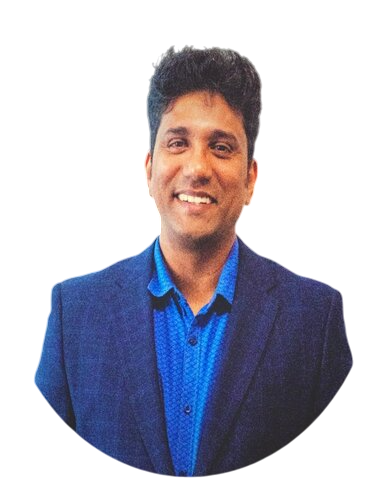
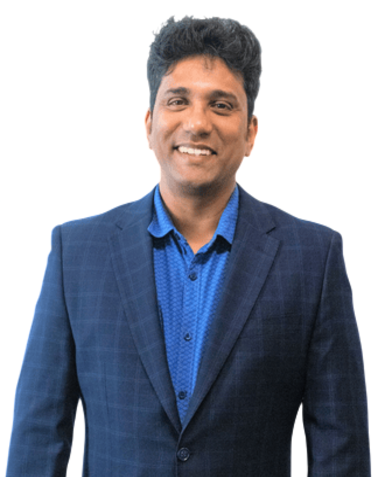
about company added

diff --git a/index.html b/index.html
@@ -26,6 +26,13 @@
   <link href="assets/vendor/swiper/swiper-bundle.min.css" rel="stylesheet">
   <link href="assets/vendor/glightbox/css/glightbox.min.css" rel="stylesheet">
 
+  <!-- Include SweetAlert2 CSS -->
+  <link href="https://cdn.jsdelivr.net/npm/sweetalert2@11/dist/sweetalert2.min.css" rel="stylesheet">
+
+  <!-- Include SweetAlert2 JS -->
+  <script src="https://cdn.jsdelivr.net/npm/sweetalert2@11"></script>
+
+
   <!-- Main CSS File -->
   <link href="assets/css/main.css" rel="stylesheet">
 
@@ -152,25 +159,20 @@
             <img src="assets/img/about.jpg" class="img-fluid" alt="">
           </div>
           <div class="col-lg-6 order-2 order-lg-1 content">
-            <h3>Voluptatem dignissimos provident</h3>
+            <h3>About Company</h3>
             <p class="fst-italic">
-              Lorem ipsum dolor sit amet, consectetur adipiscing elit, sed do eiusmod tempor incididunt ut labore et
-              dolore
-              magna aliqua.
+              Softbel Tech is a private limited company (OPC) incorporated on 18th July 2020 under the Companies Act,
+              2013 (18 of 2013). The company is limited by shares.
             </p>
             <ul>
-              <li><i class="bi bi-check2-all"></i> <span>Ullamco laboris nisi ut aliquip ex ea commodo consequat.</span>
-              </li>
-              <li><i class="bi bi-check2-all"></i> <span>Duis aute irure dolor in reprehenderit in voluptate
-                  velit.</span></li>
-              <li><i class="bi bi-check2-all"></i> <span>Ullamco laboris nisi ut aliquip ex ea commodo consequat. Duis
-                  aute irure dolor in reprehenderit in voluptate trideta storacalaperda mastiro dolore eu fugiat nulla
-                  pariatur.</span></li>
+              <li><i class="bi bi-check2-all"></i> <span>Corporate Identity Number (CIN) of the company is
+                  U72900KL2020OPC062988.</span></li>
+              <li><i class="bi bi-check2-all"></i> <span>TAN of the company is CHNS12845A.</span></li>
+              <li><i class="bi bi-check2-all"></i> <span>PAN of the company is ABDCS9875L.</span></li>
             </ul>
             <p>
-              Ullamco laboris nisi ut aliquip ex ea commodo consequat. Duis aute irure dolor in reprehenderit in
-              voluptate
-              velit esse cillum dolore eu fugiat nulla pariatur. Excepteur sint occaecat cupidatat non proident
+              Softbel Tech aims to provide innovative technology solutions, delivering high-quality services while
+              upholding a strong commitment to customer satisfaction.
             </p>
           </div>
         </div>
@@ -178,6 +180,7 @@
       </div>
 
     </section>
+
     <!-- /About Section -->
 
     <!-- Clients Section -->
@@ -421,8 +424,8 @@
                 <p>Efficient management of billing and invoicing for jewellery stores.</p>
                 <a href="assets/img/masonry-portfolio/masonry-portfolio-1.jpg" title="Jewellery Billing System"
                   data-gallery="portfolio-gallery" class="glightbox preview-link"><i class="bi bi-zoom-in"></i></a>
-                <a href="portfolio-details.html" title="More Details" class="details-link"><i
-                    class="bi bi-link-45deg"></i></a>
+                <!-- <a href="portfolio-details.html" title="More Details" class="details-link"><i
+                    class="bi bi-link-45deg"></i></a> -->
               </div>
             </div><!-- End Portfolio Item -->
 
@@ -435,8 +438,8 @@
                 <p>Streamlining inventory tracking and management for businesses.</p>
                 <a href="assets/img/masonry-portfolio/masonry-portfolio-1.jpg" title="Inventory Management System"
                   data-gallery="portfolio-gallery" class="glightbox preview-link"><i class="bi bi-zoom-in"></i></a>
-                <a href="portfolio-details.html" title="More Details" class="details-link"><i
-                    class="bi bi-link-45deg"></i></a>
+                <!-- <a href="portfolio-details.html" title="More Details" class="details-link"><i
+                    class="bi bi-link-45deg"></i></a> -->
               </div>
             </div><!-- End Portfolio Item -->
 
@@ -449,8 +452,8 @@
                 <p>Advanced software to manage drone operations for irrigation systems.</p>
                 <a href="assets/img/masonry-portfolio/masonry-portfolio-1.jpg" title="Drone Software for Irrigation"
                   data-gallery="portfolio-gallery" class="glightbox preview-link"><i class="bi bi-zoom-in"></i></a>
-                <a href="portfolio-details.html" title="More Details" class="details-link"><i
-                    class="bi bi-link-45deg"></i></a>
+                <!-- <a href="portfolio-details.html" title="More Details" class="details-link"><i
+                    class="bi bi-link-45deg"></i></a> -->
               </div>
             </div><!-- End Portfolio Item -->
 
@@ -485,38 +488,35 @@
             <div class="team-member">
               <div class="member-img">
                 <img src="assets/img/people/jos.png" class="img-fluid" alt="">
-                <div class="social">
+                <!-- <div class="social">
                   <a href=""><i class="bi bi-twitter-x"></i></a>
                   <a href=""><i class="bi bi-facebook"></i></a>
                   <a href=""><i class="bi bi-instagram"></i></a>
                   <a href=""><i class="bi bi-linkedin"></i></a>
-                </div>
+                </div> -->
               </div>
               <div class="member-info">
                 <h4>Jos Babu</h4>
-                <span>Founder Director & Chief Information Officer</span>
+                <span>Founder Director & Chief Information Officer</span>
+                <!-- Short description -->
+                <p>
+                  IT professional with 25 years of experience in heading Information technology, Shared services, Info
+                  Sec, IT infra with UAE Exchange & Financial services Ltd, India and UNIMONI, India as CIO, CTO &
+                  Senior Vice President.
+                </p>
+                <p id="more-text-1" style="display:none;">
+                  A certified Scrum master who has Managed large-scale global projects and 100+ IT professionals with
+                  in-house and outsourced resources. Developed & Managed ERP solutions like Foreign Exchange
+                  management system, Online Air ticketing & holidays, Gold Loan, Prepaid Wallet- UPI, FA, HRMS, CRMS
+                  with online KYC customer onboarding, and Inventory management.
+                </p>
+                <a href="javascript:void(0);" id="see-more-1" onclick="toggleText(1)">See More</a>
+                </p>
               </div>
             </div>
           </div><!-- End Team Member -->
 
-          <div class="col-lg-3 col-md-6 d-flex align-items-stretch" data-aos="fade-up" data-aos-delay="200">
-            <div class="team-member">
-              <div class="member-img">
-                <img src="assets/img/people/anand.jpg" class="img-fluid" alt="">
-                <div class="social">
-                  <a href=""><i class="bi bi-twitter-x"></i></a>
-                  <a href=""><i class="bi bi-facebook"></i></a>
-                  <a href=""><i class="bi bi-instagram"></i></a>
-                  <a href=""><i class="bi bi-linkedin"></i></a>
-                </div>
-              </div>
-              <div class="member-info">
-                <h4>Anand Paul</h4>
-                <span>Chief Marketing Officer
-                  Malta, Europe</span>
-              </div>
-            </div>
-          </div><!-- End Team Member -->
+
 
           <div class="col-lg-3 col-md-6 d-flex align-items-stretch" data-aos="fade-up" data-aos-delay="300">
             <div class="team-member">
@@ -533,7 +533,57 @@
                 <h4>Aneesh Gopinathan</h4>
                 <span>Chief Technology Officer
                   Melbourne, Australia</span>
+                <!-- Short description -->
+                <p>
+                  IT Technical project /program professional with 20+ years of experience in delivering successful hard
+                  ware and software projects in energy, health , telecommunication and cyber security sector.
+                </p>
+                <p id="more-text-3" style="display:none;">
+                  Past experience includes digital transformation projects in energy grid and automation, leveraging
+                  smart software solution and system integration in Siemens.
+                  Development head of molecular spectral imaging CT scanners , and worked as country head for cyber
+                  security and SaaS products.
+                </p>
+                <a href="javascript:void(0);" id="see-more-3" onclick="toggleText(3)">See More</a>
+                </p>
               </div>
+
+
+
+            </div>
+          </div><!-- End Team Member -->
+
+          <div class="col-lg-3 col-md-6 d-flex align-items-stretch" data-aos="fade-up" data-aos-delay="200">
+            <div class="team-member">
+              <div class="member-img">
+                <img src="assets/img/people/anand.png" class="img-fluid" alt="">
+                <div class="social">
+                  <a href=""><i class="bi bi-twitter-x"></i></a>
+                  <a href=""><i class="bi bi-facebook"></i></a>
+                  <a href=""><i class="bi bi-instagram"></i></a>
+                  <a href=""><i class="bi bi-linkedin"></i></a>
+                </div>
+              </div>
+              <div class="member-info">
+                <h4>Anand Paul</h4>
+                <span>Chief Marketing Officer
+                  Malta, Europe</span>
+                <!-- Short description -->
+                <p>
+                  20+ years of experience in hotel management projects, specialised in food and beverages, marketing and
+                  sales.
+                </p>
+                <p id="more-text-2" style="display:none;">
+                  Extensively global exposure in large corporate group across various domains as Captain and F & B head
+                  in hotel management and sales head in BFSI. Experience in handling large global customers and their
+                  relations to improve operations efficiency , sales and profit for the organisation.
+                </p>
+                <a href="javascript:void(0);" id="see-more-2" onclick="toggleText(2)">See More</a>
+                </p>
+              </div>
+
+
+
             </div>
           </div><!-- End Team Member -->
 
@@ -610,23 +660,22 @@
           </div>
 
           <div class="col-lg-8">
-            <form method="" class="php-email-form" data-aos="fade-up" data-aos-delay="200">
+            <form id="contact-form" class="php-email-form" data-aos="fade-up" data-aos-delay="200"
+              onsubmit="return false;">
               <div class="row gy-4">
 
                 <div class="col-md-6">
-                  <input type="text" name="name" class="form-control" placeholder="Your Name" required="">
+                  <input type="text" name="name" id="name" class="form-control" placeholder="Your Name" required="">
                 </div>
 
-                <div class="col-md-6 ">
-                  <input type="text" class="form-control" name="mobile_no" placeholder="Your Mobile No." required="">
+                <div class="col-md-6">
+                  <input type="text" class="form-control" name="mobile_no" id="mobile_no" placeholder="Your Mobile No."
+                    required="">
                 </div>
-
-                <!-- <div class="col-md-12">
-                  <input type="text" class="form-control" name="subject" placeholder="Subject" required="">
-                </div> -->
 
                 <div class="col-md-12">
-                  <textarea class="form-control" name="message" rows="6" placeholder="Message" required=""></textarea>
+                  <textarea class="form-control" name="message" id="message" rows="6" placeholder="Message"
+                    required=""></textarea>
                 </div>
 
                 <div class="col-md-12 text-center">
@@ -634,7 +683,8 @@
                   <div class="error-message"></div>
                   <div class="sent-message">Your message has been sent. Thank you!</div>
 
-                  <button class="button1">Send</button>
+                  <!-- Changed the button type to button to prevent form submission -->
+                  <button type="button" class="button1" id="send-button">Send</button>
                 </div>
 
               </div>
@@ -694,7 +744,7 @@
             </ul>
           </div>
 
-          <div class="col-lg-4 col-md-12 footer-newsletter">
+          <!-- <div class="col-lg-4 col-md-12 footer-newsletter">
             <h4>Our Newsletter</h4>
             <p>Subscribe to our newsletter and receive the latest news about our products and services!</p>
             <form action="forms/newsletter.php" method="post" class="php-email-form">
@@ -704,25 +754,22 @@
               <div class="error-message"></div>
               <div class="sent-message">Your subscription request has been sent. Thank you!</div>
             </form>
-          </div>
+          </div> -->
 
         </div>
       </div>
     </div>
 
-    <div class="copyright">
+    <!-- <div class="copyright">
       <div class="container text-center">
         <p>© <span>Copyright</span> <strong class="px-1 sitename">GP</strong> <span>All Rights Reserved</span></p>
         <div class="credits">
-          <!-- All the links in the footer should remain intact. -->
-          <!-- You can delete the links only if you've purchased the pro version. -->
-          <!-- Licensing information: https://bootstrapmade.com/license/ -->
-          <!-- Purchase the pro version with working PHP/AJAX contact form: [buy-url] -->
+
           Designed by <a href="https://bootstrapmade.com/">BootstrapMade</a> Distributed by <a
             href="https://themewagon.com">ThemeWagon</a>
         </div>
       </div>
-    </div>
+    </div> -->
 
   </footer>
 
@@ -745,6 +792,51 @@
 
   <!-- Main JS File -->
   <script src="assets/js/main.js"></script>
+
+  <script>
+    document.getElementById('send-button').addEventListener('click', function () {
+      // Get form field values
+      var name = document.getElementById('name').value.trim();
+      var mobile_no = document.getElementById('mobile_no').value.trim();
+      var message = document.getElementById('message').value.trim();
+
+      // Check if all required fields are filled
+      if (name === "" || mobile_no === "" || message === "") {
+        // Show error if any field is empty
+        Swal.fire({
+          icon: 'error',
+          title: 'Oops...',
+          text: 'Please fill all the fields before sending the message.',
+          confirmButtonText: 'OK'
+        });
+      } else {
+        // Show SweetAlert success message if all fields are filled
+        Swal.fire({
+          icon: 'success',
+          title: 'Thank you for contacting us!',
+          text: 'We will get back to you soon.',
+          confirmButtonText: 'OK'
+        });
+
+        // Optionally reset the form after showing the message
+        document.getElementById('contact-form').reset();
+      }
+    });
+
+    function toggleText(id) {
+      var moreText = document.getElementById('more-text-' + id);
+      var seeMoreLink = document.getElementById('see-more-' + id);
+
+      if (moreText.style.display === 'none') {
+        moreText.style.display = 'inline';  // Show the rest of the text
+        seeMoreLink.textContent = 'See Less'; // Change link text to "See Less"
+      } else {
+        moreText.style.display = 'none'; // Hide the rest of the text
+        seeMoreLink.textContent = 'See More'; // Change link text back to "See More"
+      }
+    }
+
+  </script>
 
 </body>
 

diff --git a/assets/css/main.css b/assets/css/main.css
@@ -1737,3 +1737,9 @@ section,
 .starter-section {
   /* Add your styles here */
 }
+
+section#about,
+section#portfolio,
+section#contact {
+  background-color: #a0c0dd;
+}
